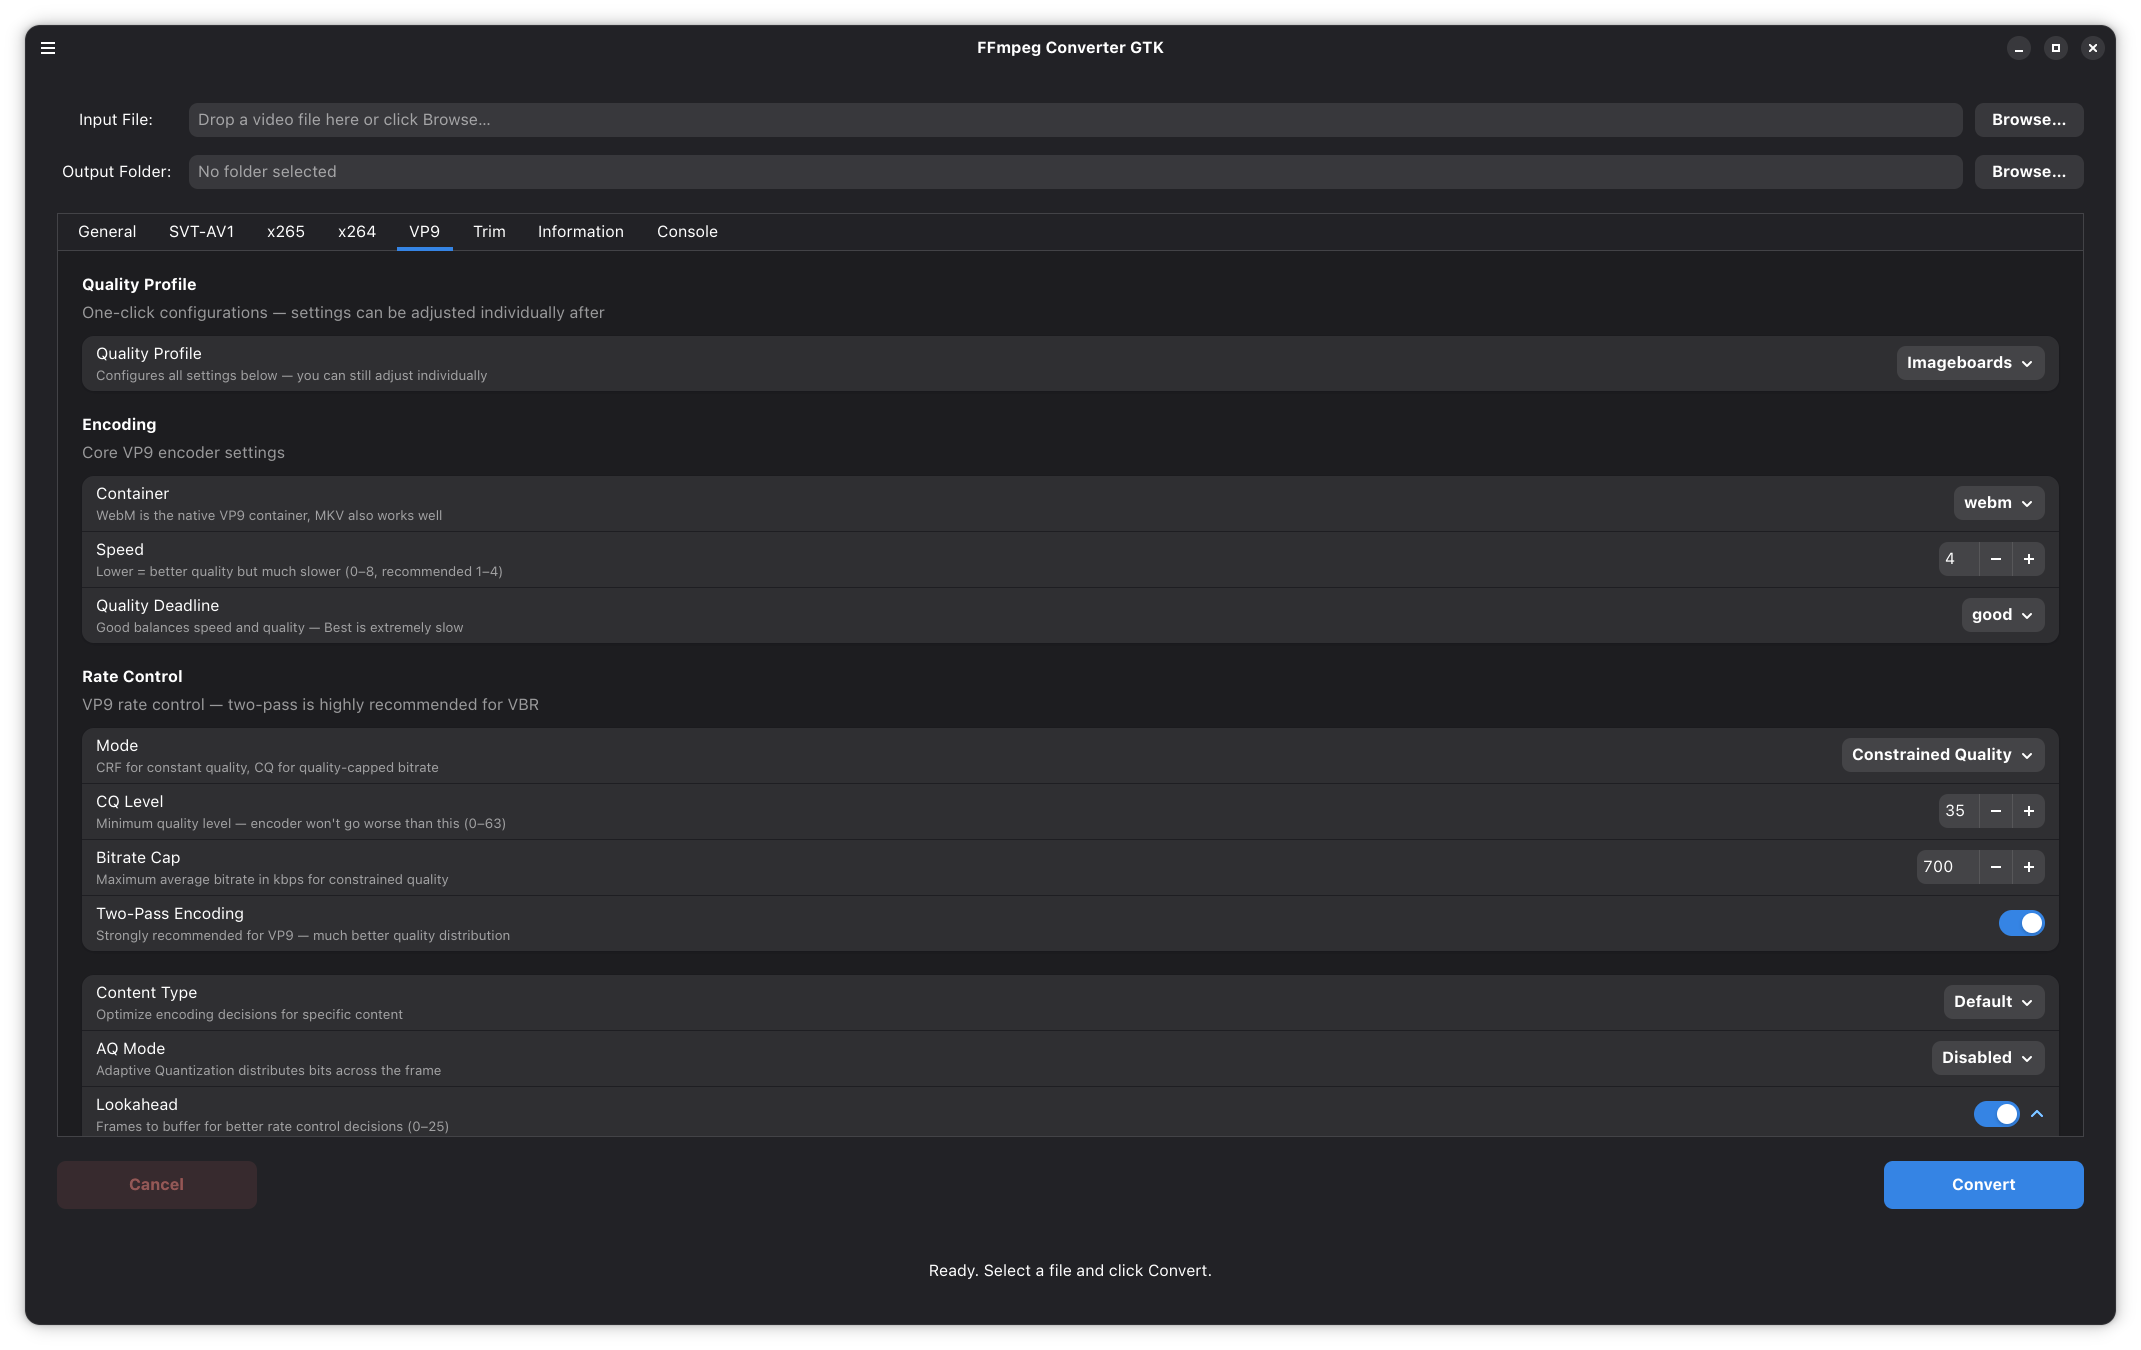
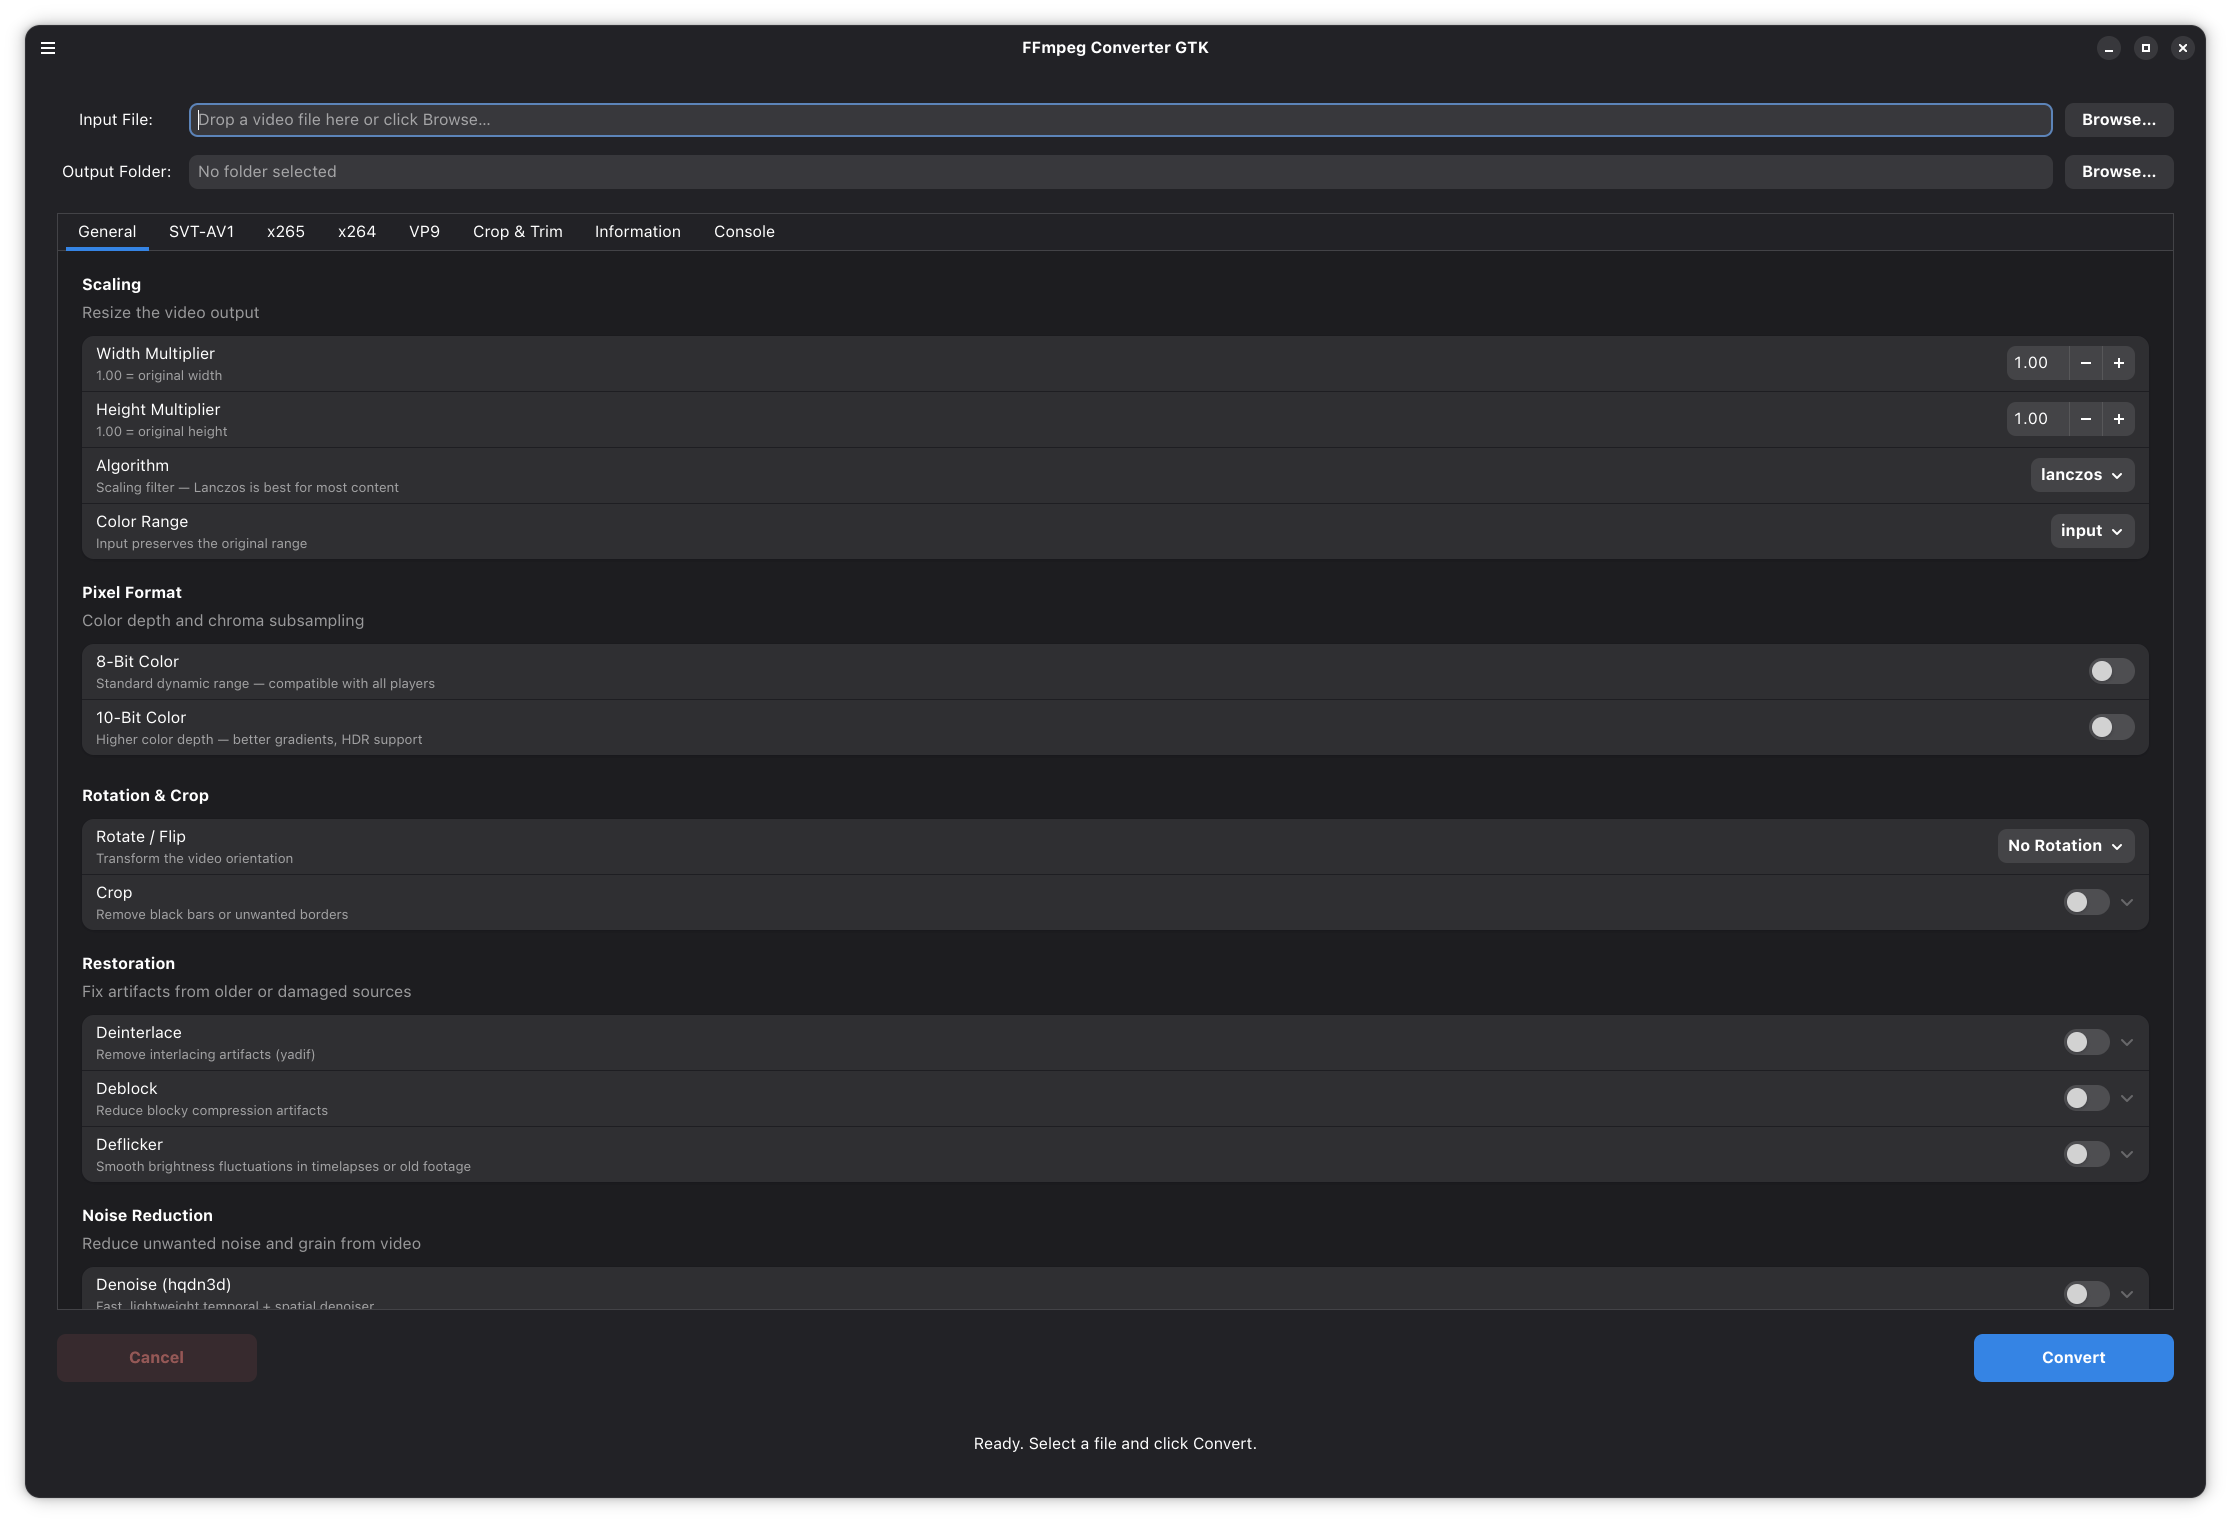
added overwrite protection to crop & trim, updated readme and screnshot, version number increase from 1.0 to 1.1

diff --git a/README.md b/README.md
@@ -13,7 +13,7 @@ My own pet project. FFmpeg-Converter-GTK a simple GTK / Libadwaita frontend for 
 - Smart audio settings (Opus, AAC, MP3, FLAC, normalization, speed adjustment)
 - Live console output and detailed information tab
 - Extensive color and light correction and alteration. Full RGB manipulation.
-- Trim tab that supports cutting, trimming, scrubbing, re-encoding, copy, and create individual and concatenate segments
+- Crop & Trim tab that supports cutting, trimming, scrubbing, re-encoding, copy, creating individual and concatenate segments, and interactive cropping. Even cropping on a per segment basis + concatenate.
 - Native Adwaita UI
 
 ### Dependency
